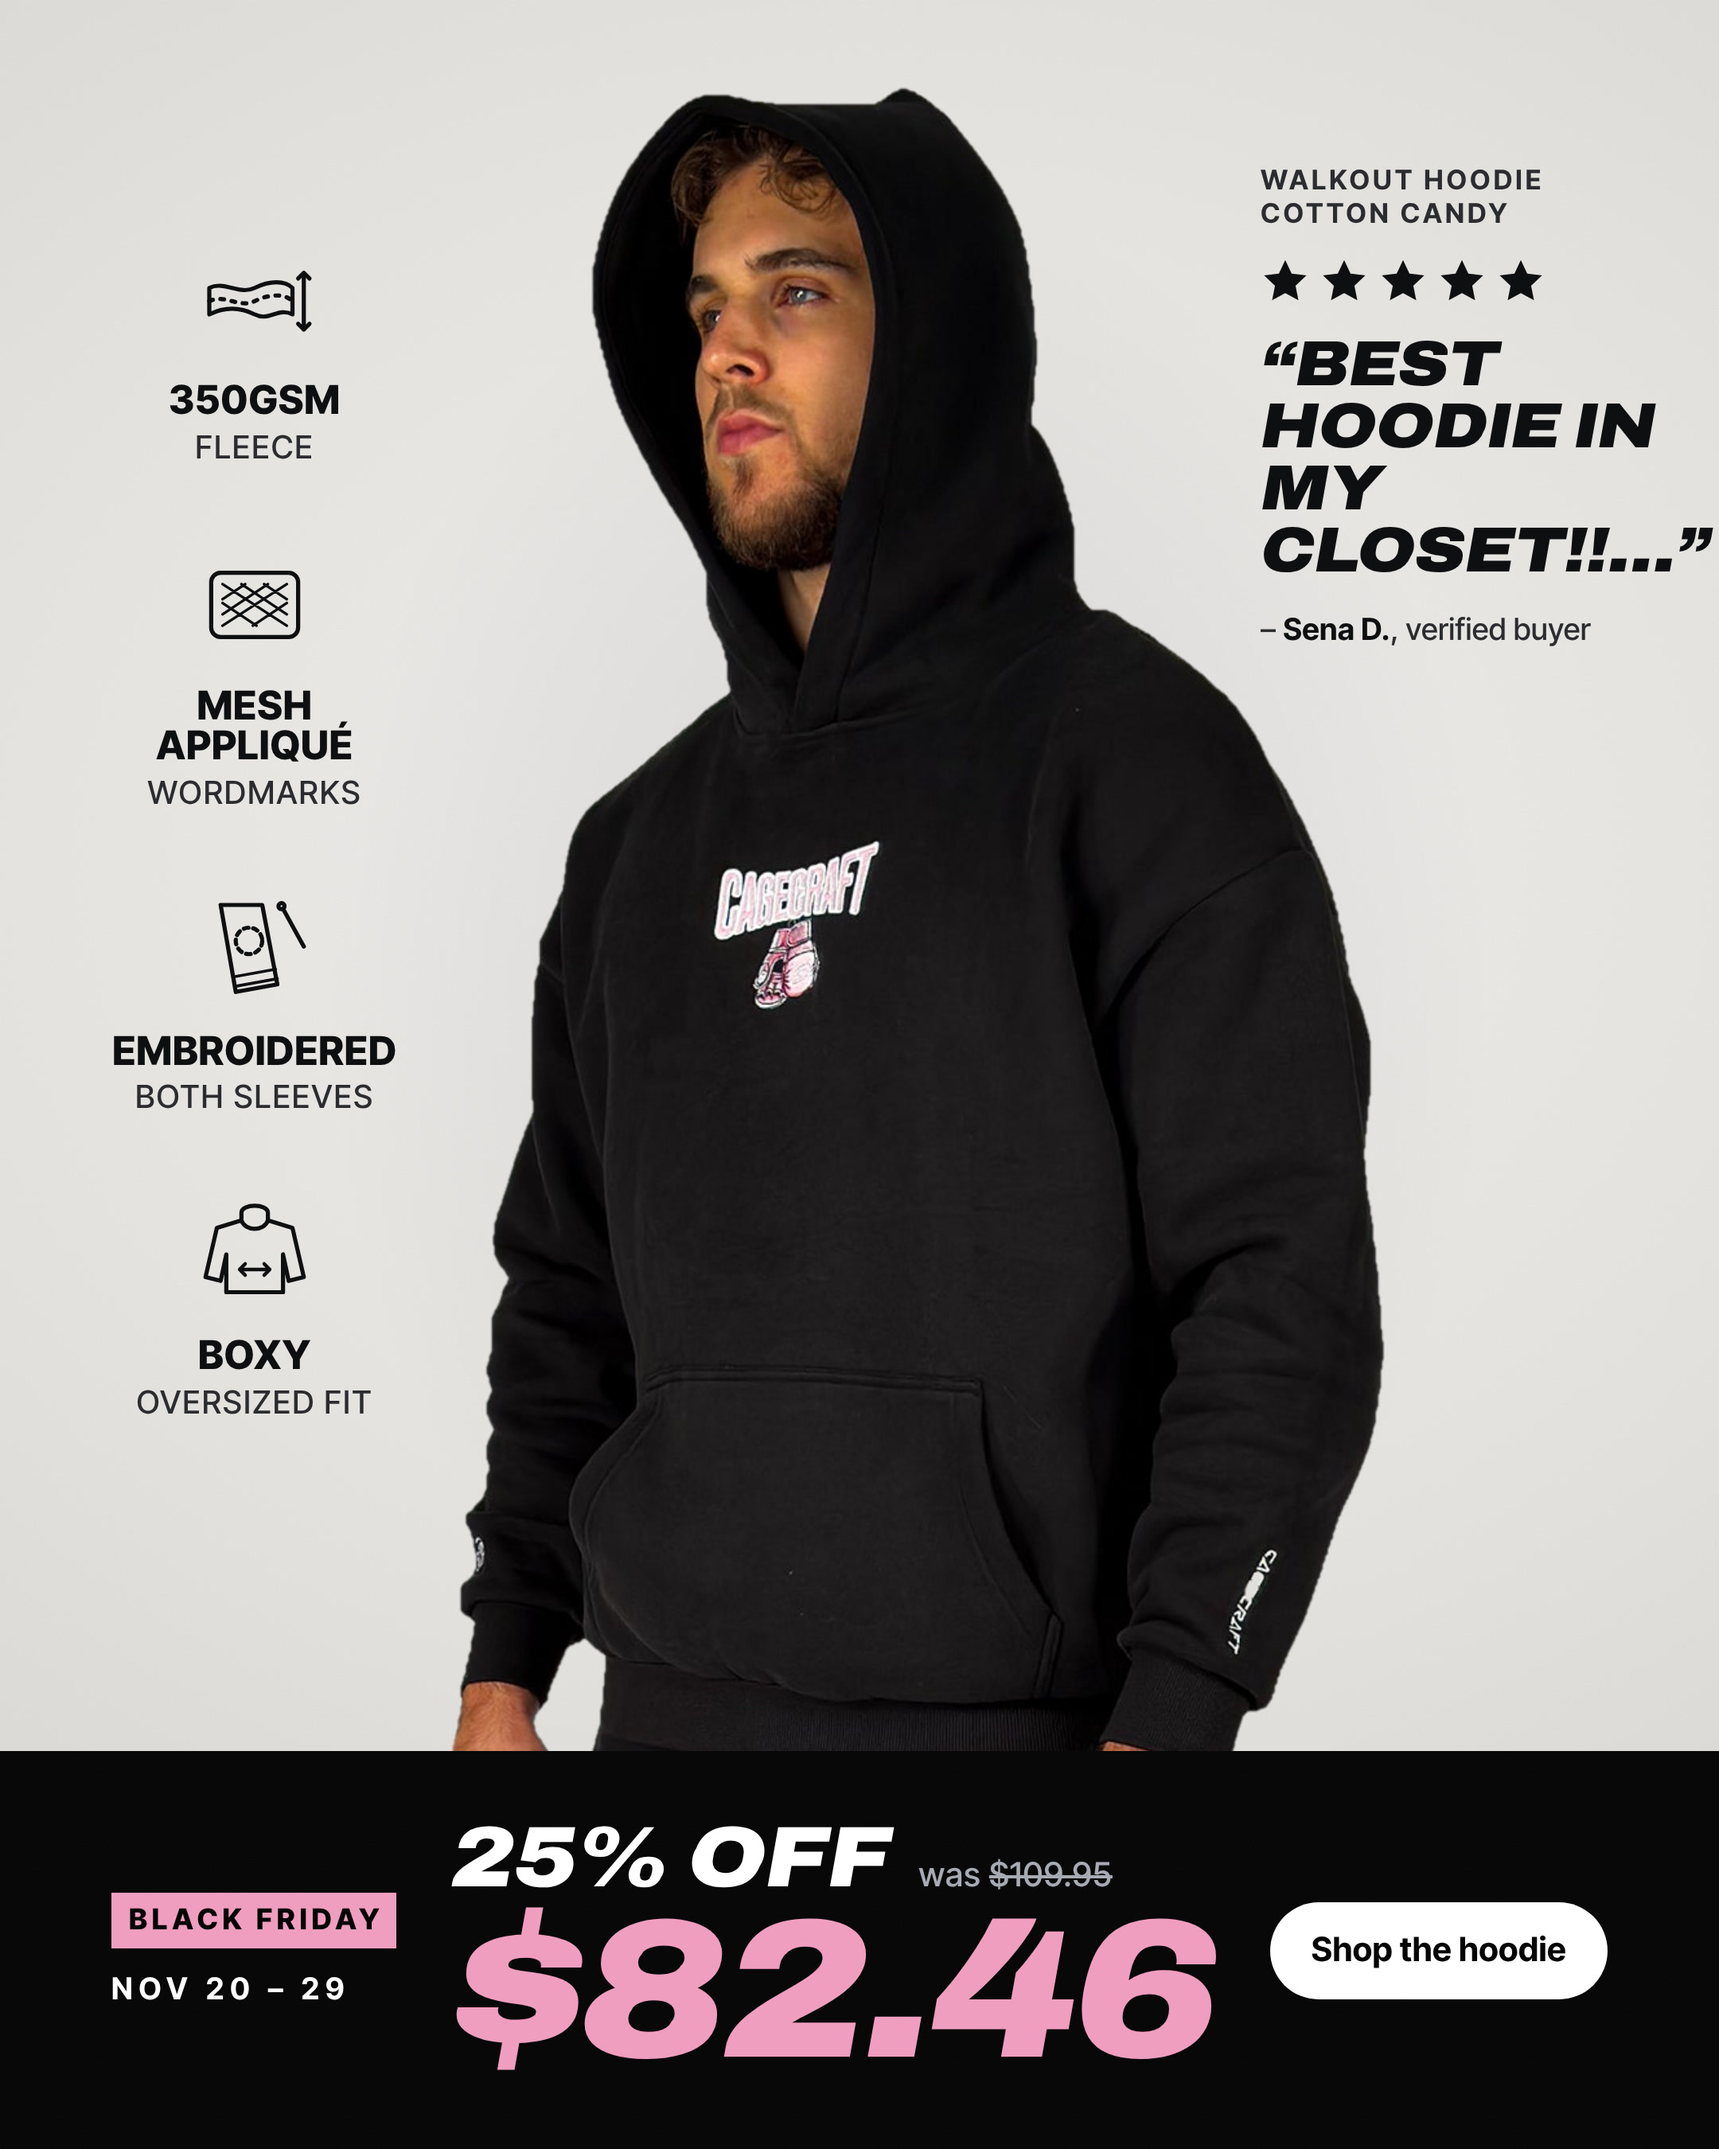
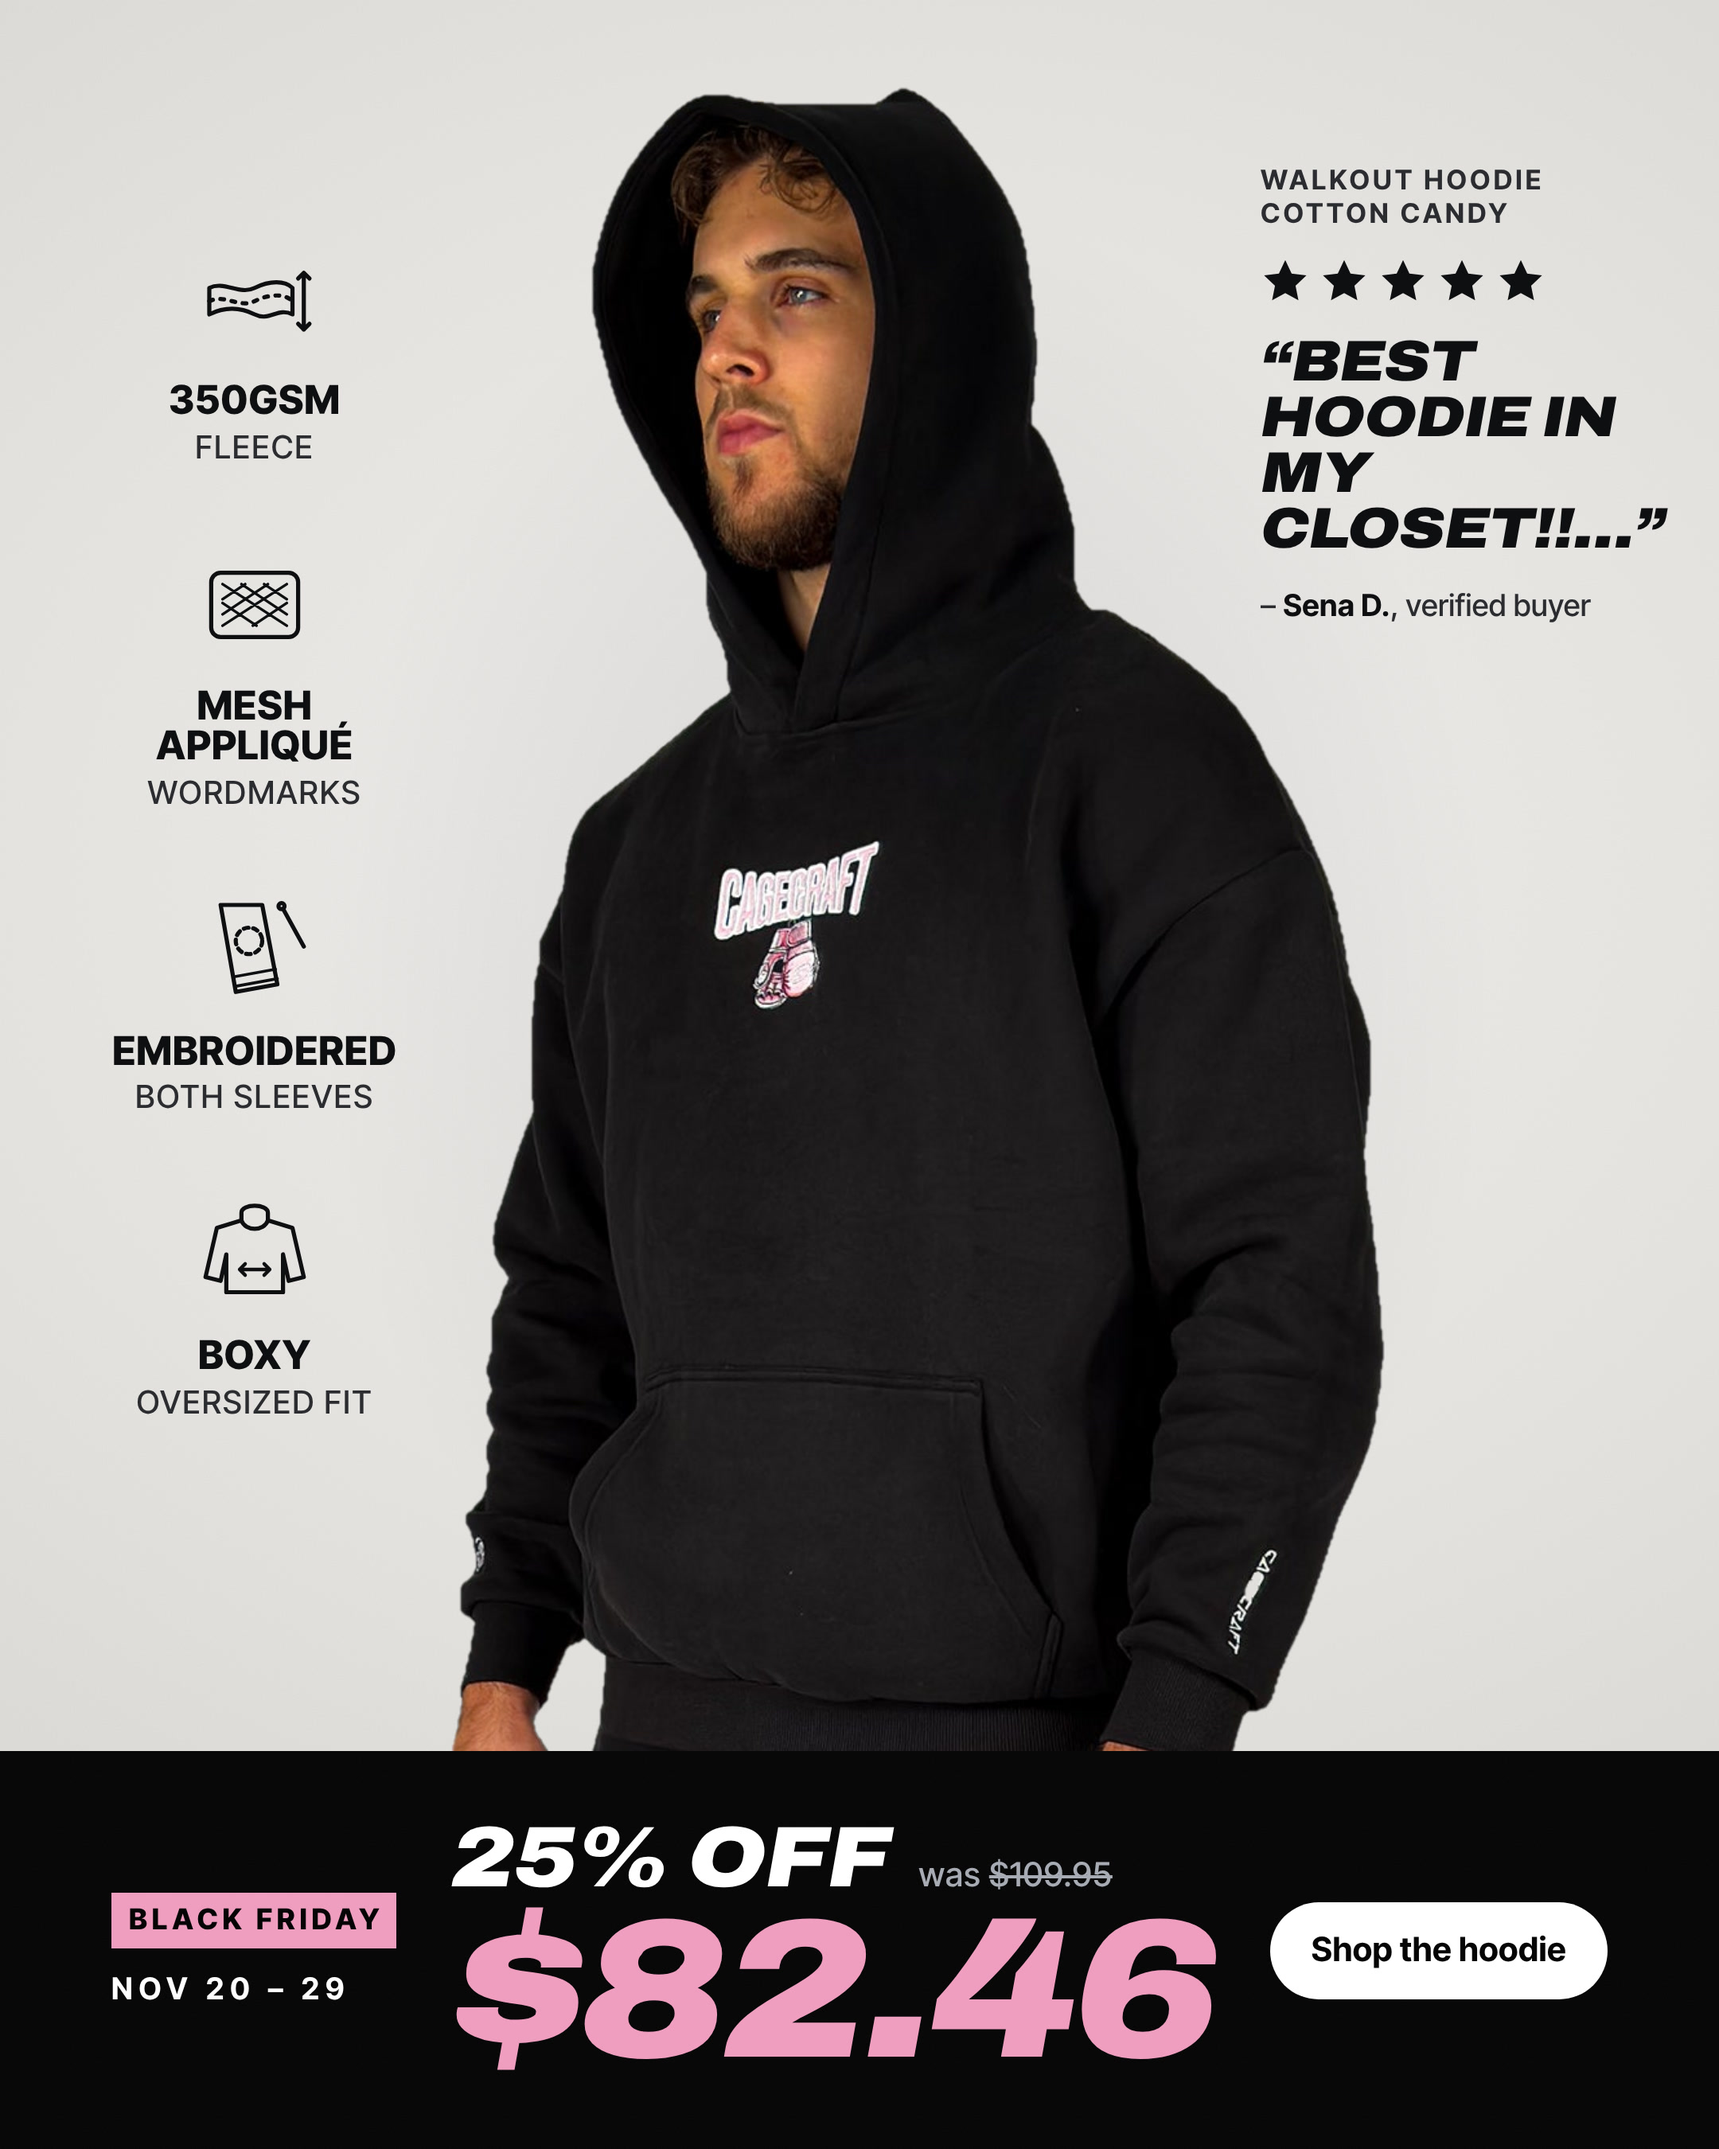
Add five Black Friday ads built on the locked BFCM offer
Early-access pass, up-to-40% fight-card poster, Fight Jersey 2.0 price drop,
Walkout Hoodie review with price band, and the gift ladder scorecard, each in
4:5 and 9:16. Garments are the real product photographs (fidelity checks pass);
no AI imagery. Gallery generator now lists the Black Friday set first.

Claude-Session: https://claude.ai/code/session_01DwmoEqr1RwHTgddNqYW2vH

Changed region(s): [[0.7134, 0.1556, 0.9926, 0.3111]]

diff --git a/cagecraft-ads/scripts/gallery.template.html b/cagecraft-ads/scripts/gallery.template.html
@@ -82,7 +82,7 @@ summary::after { content: " +"; } details[open] summary::after { content: " –"
   <header class="top">
     <div class="eyebrow">Creative review · built from competitor formats with evidence of working</div>
     <h1>Cagecraft Ad Recreations</h1>
-    <p class="lede">Each creative below rebuilds a long-running competitor ad format for a Cagecraft bestseller. <b>Wherever a garment appears, it is your own photography, placed as-is.</b> Where AI was used, it made only backgrounds, b-roll with no product in frame, or audio. Open a card's sheet for the ad copy, the source photos and what to check before it runs.</p>
+    <p class="lede">The Black Friday set comes first, built on your locked offer. The rest rebuild long-running competitor ad formats for your bestsellers. <b>Wherever a garment appears, it is your own photography, placed as-is.</b> Where AI was used, it made only backgrounds, b-roll with no product in frame, or audio. Open a card's sheet for the ad copy, the source photos and what to check before it runs.</p>
     <div class="rule" id="stats"></div>
   </header>
 
@@ -100,10 +100,11 @@ summary::after { content: " +"; } details[open] summary::after { content: " –"
 const ADS = /*__DATA__*/[];
 const $ = (s, r = document) => r.querySelector(s);
 const el = (tag, cls, text) => { const e = document.createElement(tag); if (cls) e.className = cls; if (text != null) e.textContent = text; return e; };
-const productKey = (a) => { const p = (a.product + " " + a.id).toLowerCase(); return p.includes("hoodie") ? "hoodie" : p.includes("jersey") ? "jersey" : "legacy"; };
+const productKey = (a) => { const p = (a.product + " " + a.id).toLowerCase(); return p.includes("hoodie") ? "hoodie" : p.includes("jersey") ? "jersey" : p.includes("legacy") ? "legacy" : "other"; };
 
 const FILTERS = [
   ["all", "All", () => true],
+  ["bf", "Black Friday", (a) => a.id.startsWith("bf-")],
   ["static", "Stills", (a) => a.type === "static"],
   ["video", "Videos", (a) => a.type === "video"],
   ["hoodie", "Walkout Hoodie", (a) => productKey(a) === "hoodie"],

diff --git a/cagecraft-ads/ads/bf-03-jersey-price-drop/ad.html b/cagecraft-ads/ads/bf-03-jersey-price-drop/ad.html
@@ -97,10 +97,10 @@
   if (tall) document.body.classList.add("v916");
   const L = tall ? {
     labelsY: 278, headY: 352, h1: 166, h2: 62, priceY: 1084, factsY: 1230,
-    top: 628, floorY: 1000, floorH: 400, w: 296, step: 284, rot: 2,
+    top: 640, floorY: 990, floorH: 400, w: 258, step: 264, rot: 2,
   } : {
-    labelsY: 80, headY: 184, h1: 166, h2: 62, priceY: 962, factsY: 1160,
-    top: 480, floorY: 850, floorH: 360, w: 284, step: 278, rot: 2,
+    labelsY: 80, headY: 184, h1: 166, h2: 62, priceY: 1000, factsY: 1200,
+    top: 520, floorY: 870, floorH: 360, w: 256, step: 262, rot: 2,
   };
   const R = document.documentElement.style;
   for (const [k, v] of Object.entries({ "--labels-y": L.labelsY, "--head-y": L.headY, "--h1": L.h1, "--h2": L.h2,

diff --git a/cagecraft-ads/ads/bf-04-hoodie-review/ad.html b/cagecraft-ads/ads/bf-04-hoodie-review/ad.html
@@ -35,7 +35,7 @@
   .stars { display: flex; gap: 6px; margin: 14px 0 18px; }
   .stars svg { width: 31px; height: 31px; fill: #0E0F11; }
   .quote { font-family: var(--cc-display); font-weight: 900; font-style: italic; font-stretch: 112%; text-transform: uppercase;
-    font-size: 40px; line-height: .98; letter-spacing: -.012em; margin: 0; }
+    font-size: 36px; line-height: .98; letter-spacing: -.012em; margin: 0; }
   .quote .q { color: #0E0F11; }
   .who { margin-top: 18px; font-family: var(--cc-body); font-size: 19px; font-weight: 500; color: #2A2C30; letter-spacing: .01em; }
   .who strong { font-weight: 700; color: #0E0F11; }

diff --git a/cagecraft-ads/scripts/build-gallery.py b/cagecraft-ads/scripts/build-gallery.py
@@ -49,6 +49,7 @@ def as_text(v):
 ads = []
 for bf in sorted(glob.glob(os.path.join(ROOT, "ads", "*", "brief.json"))):
     d = os.path.dirname(bf); aid = os.path.basename(d); num = aid.split("-")[0]
+    if num == "bf": num = "BF" + aid.split("-")[1].lstrip("0")
     try: b = json.load(open(bf))
     except Exception as e: print("bad brief", aid, e); continue
     outd = os.path.join(d, "out")
@@ -83,6 +84,7 @@ for bf in sorted(glob.glob(os.path.join(ROOT, "ads", "*", "brief.json"))):
         "fidelity": as_text(b.get("fidelity")), "notes": as_text(b.get("notes_for_owner")), "media": media,
     })
 
+ads.sort(key=lambda a: (not a["id"].startswith("bf-"), a["id"]))
 tpl = open(os.path.join(ROOT, "scripts", "gallery.template.html")).read()
 page = tpl.replace("/*__DATA__*/[]", json.dumps(ads, ensure_ascii=False).replace("</", "<\\/"))
 open(os.path.join(OUT, "index.html"), "w").write(page)
